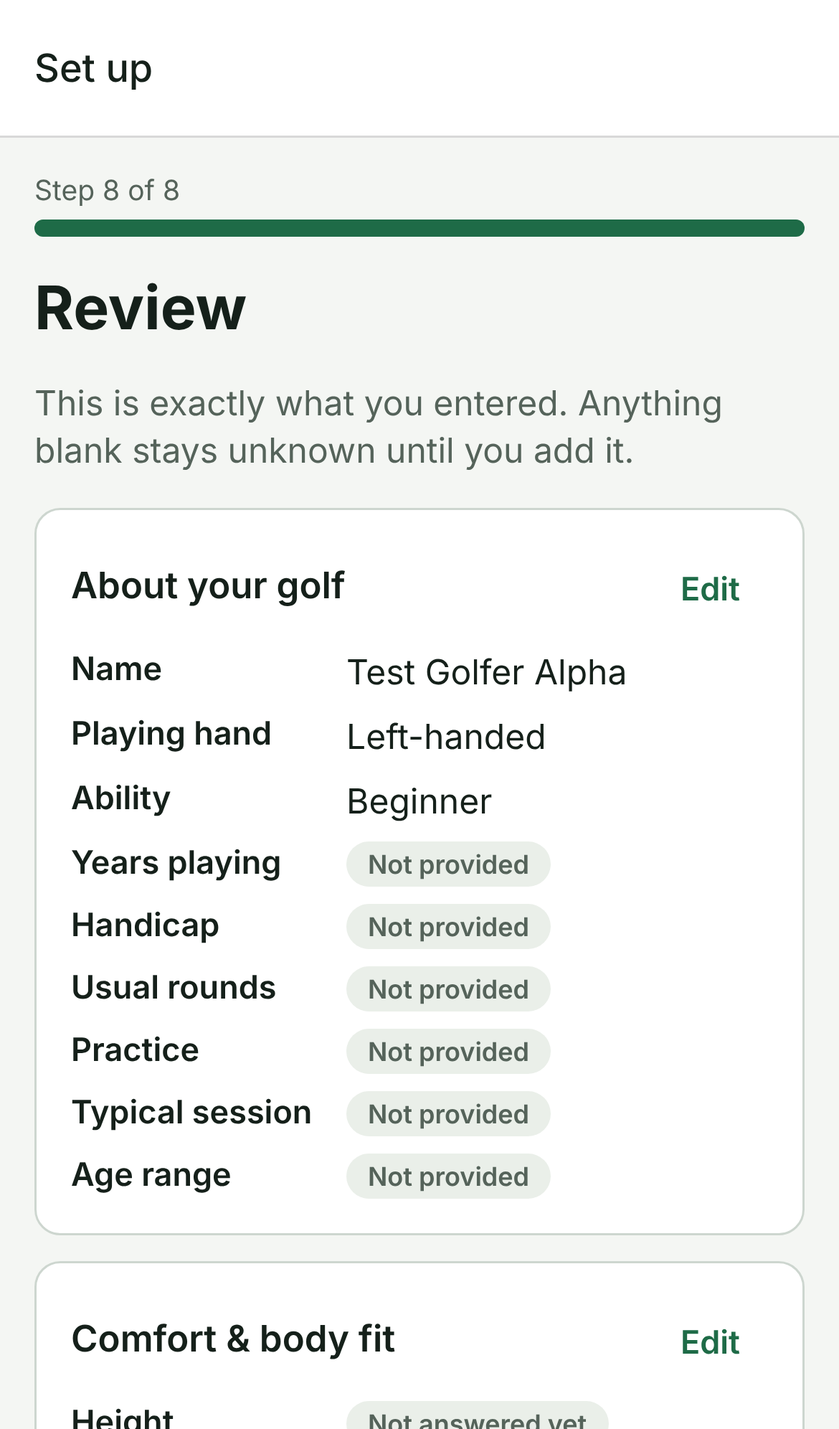
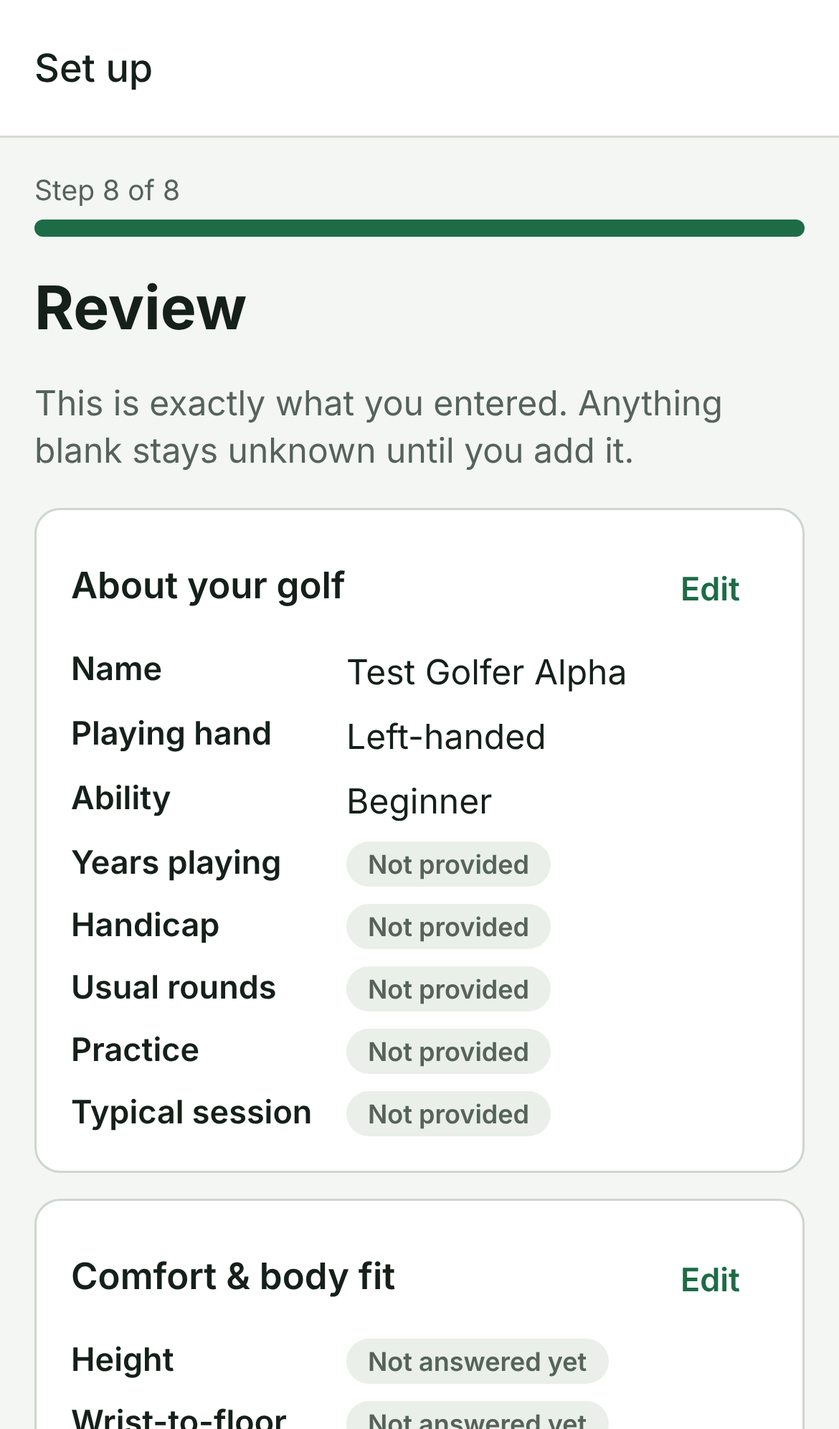
Update status, differences register and docs for M0 review
Claude-Session: https://claude.ai/code/session_01UXSWmpvm9VG5fmHmMJsMFg

diff --git a/IMPLEMENTATION_STATUS.md b/IMPLEMENTATION_STATUS.md
@@ -1,17 +1,21 @@
 # Implementation status
 
-_Last updated: 2026-10-19 (M0 delivery)._ Legend: **DONE** · **PARTIAL** · **NOT STARTED** · **BLOCKED EXTERNALLY**
+_Last updated: 2026-10-19 (M0 delivery, after spec reconciliation and the CI fix)._
+Legend: **DONE** · **PARTIAL** · **NOT STARTED** · **BLOCKED EXTERNALLY**
+
+Authoritative spec: [`docs/spec/adaptive_golf_coach_codex_master_prompt_v2.md`](docs/spec/adaptive_golf_coach_codex_master_prompt_v2.md)
+(owner's original). Architecture overrides: [`docs/spec/PROJECT_INSTRUCTIONS.md`](docs/spec/PROJECT_INSTRUCTIONS.md).
 
 ## Milestones
 
 | Milestone | Status | Notes / blocker and owner action |
 |---|---|---|
-| **M0** Foundation: project, navigation, onboarding, club catalogue, Brand/Model, My Clubs, Build My Bag, persistence | **DONE** (all acceptance criteria below verified in the browser build) / **PARTIAL** for native iOS | Native iOS binary not yet built. Needs an Expo account (free) for EAS Build, and Apple Developer membership to install on a phone. The iOS JavaScript bundle *does* build (`expo export --platform ios`). |
-| Browser preview deployment (GitHub Pages) | **BLOCKED EXTERNALLY** | Owner: Settings → Pages → Source “GitHub Actions”, then merge `claude/m0-foundation` into `main`. The workflow is written; the sub-path build passes E2E locally; it has not deployed yet. |
-| **M1** Offline video analyser (Apple Vision native module) | **NOT STARTED** | Not started, by instruction, until M0 is accepted. Needs: Apple Developer Program (to run on the iPhone), owner-supplied swing clips for validation. |
-| **M2** Curriculum, competency & refresher engine | NOT STARTED | Learn tab shows “Not available yet”. |
-| **M3** Rounds, practice logging, trends, import | NOT STARTED | M0 stores self-reported baseline round totals only. JSON export done; import not started. |
-| **M4** Accounts / sync / video backup | NOT STARTED | Provider decision (iCloud vs. Supabase) needed from owner before work starts. |
+| **M0** Foundation: project, navigation, onboarding, club catalogue, Brand/Model, My Clubs, Build My Bag, persistence | **DONE** in the browser build (every acceptance criterion verified below) / **PARTIAL** for native iOS | No native iOS binary has been built yet; that needs an Expo account (free) for EAS Build, and Apple Developer membership to install on a phone. The iOS JavaScript bundle does build (`expo export --platform ios`). |
+| Browser preview (GitHub Pages) | **BLOCKED EXTERNALLY** | Owner: Settings → Pages → Source **GitHub Actions**, then merge PR #1. The workflow is ready and passes `actionlint`; the identical sub-path build passes all browser tests. Not yet deployed. |
+| **M1** Offline video analyser (Apple Vision native module) | **NOT STARTED** | Not started, by instruction, until the owner has tested and approved M0. Needs the Apple Developer Program (to run on the iPhone) and owner-supplied swing clips. |
+| **M2** Curriculum, competency and refresher engine | NOT STARTED | The `player_skill_baseline` model and repository exist (supersede-only); the Learn tab shows “Not available yet”. |
+| **M3** Rounds, practice logging, trends, import | NOT STARTED | M0 stores self-reported baseline rounds (totals or hole-by-hole putts) and range sessions. JSON export is done; import is not. |
+| **M4** Accounts / sync / video backup | NOT STARTED | `SyncProvider` states exist (local only). The provider decision (iCloud vs. Supabase) is needed from the owner. |
 | **M5** Live camera, club tracking | NOT STARTED | — |
 | **M6** Product readiness | NOT STARTED | `docs/RELEASE_CHECKLIST.md` |
 
@@ -20,104 +24,103 @@ _Last updated: 2026-10-19 (M0 delivery)._ Legend: **DONE** · **PARTIAL** · **N
 | Criterion | Result | Evidence |
 |---|---|---|
 | Real app code and project scaffold; main navigation launches | ✅ | Expo SDK 57 project; 5 tabs + stack screens; web build boots with no console errors |
-| Brand-new user gets **no pre-filled real-person profile** | ✅ | `tests/data/persistence.test.ts` (fresh install), `tests/unit/noProductionFixtures.test.ts`, E2E “explore with an empty profile”, E2E Scenario A checks nothing is pre-selected |
-| Can skip **or** complete onboarding | ✅ | E2E: Scenario A (complete), “fully skipped onboarding stays blank”, “explore with an empty profile” |
-| Onboarding persists partial progress across relaunch | ✅ | E2E: reload at step 3 resumes at step 3; data test for progress |
-| Mixed-brand **partial** iron set (no auto-filled gaps) | ✅ | E2E: 5, 7, 8, 9 with no 6; 7-iron brand changed separately. Data test for the iron set helper |
-| A custom club via visible club-face tiles | ✅ | E2E: “Custom / other club” and custom driving iron |
-| A **different Brand typed for each club** | ✅ | E2E Scenario A (5 brands + 1 blank), two 5-irons A/B |
-| Select/deselect clubs into My Bag, **max 14** competition clubs | ✅ | E2E: 15th refused (from the add form and from Build My Bag) with a swap offer; swap; presets; practice selection > 14 labelled |
-| Relaunch without losing data | ✅ | E2E page reloads (IndexedDB-backed SQLite); data tests reopen the DB from saved bytes |
-| No mock analysis appears as real | ✅ | Analyse/Learn/Rounds show “Not available yet” cards; no sample data anywhere |
+| Brand-new user gets **no pre-filled real-person profile** | ✅ | `tests/data/persistence.test.ts` (fresh install), `tests/unit/noProductionFixtures.test.ts`, E2E “explore with an empty profile”, E2E Scenario A (nothing pre-selected) |
+| Can skip **or** complete onboarding | ✅ | E2E Scenario A (complete), “fully skipped onboarding stays blank”, “explore with an empty profile” |
+| Partial onboarding persists across relaunch | ✅ | E2E: reload at step 3 resumes at step 3; data test |
+| Mixed-brand **partial** iron set, no auto-filled gaps | ✅ | E2E: 5, 7, 8, 9 (no 6), with the 7-iron's brand changed on its own; data test |
+| A custom club via visible club-face tiles | ✅ | E2E: “Custom / other club”, custom driving iron, “W” stamped wedge, wedge by loft |
+| A **different Brand for each club** | ✅ | E2E Scenario A, two 5-irons with brands A and B |
+| Select/deselect into My Bag, **max 14** competition clubs | ✅ | E2E: 15th refused from the add form and from Build My Bag with a swap offer; swap; presets; practice selection > 14 labelled |
+| Relaunch without losing data | ✅ | E2E reloads; data tests reopen the database from saved bytes; two-tab test proves a stale tab cannot overwrite newer data |
+| No mock analysis appears as real | ✅ | Analyse/Learn/Rounds show “Not available yet”; no sample data anywhere |
 
-## Test results (actual, this commit)
+## Differences from the V2 specification
 
-Environment: Linux sandbox, Node 22.22, no Xcode, no iOS simulator. expo.dev / exp.host unreachable from the sandbox.
+Reconciled against the owner's original on 2026-10-19. The earlier transcription matched it word for
+word (9,246 words, no differences), so no requirement had been lost.
+Each entry gives its status: **Fixed** (done in this update), **Approved override**, **Deferred**
+(belongs to a later milestone, labelled in the UI), or **Interpretation** (please confirm).
+
+### Approved architecture overrides (owner instruction)
+| Spec | Implemented as |
+|---|---|
+| §1.1 native Swift/SwiftUI; §15.1 Xcode project | React Native + Expo + TypeScript, built by EAS; native folders generated |
+| §8 SwiftData | SQLite (expo-sqlite; sql.js in the browser preview) with append-only migrations |
+| §11 XCTest / XCUITest | Jest + React Native Testing Library + Playwright; Maestro on the iOS simulator planned |
+| §4.1 Apple Vision | Kept: custom Expo native module in M1 |
+
+### M0-scope items fixed in this update
+| Spec | Was | Now |
+|---|---|---|
+| §2.4 “Include list and **grouped visual grid**” | Grouped list and bag-order list only | **Fixed:** a grouped visual grid view in My Clubs, with an in-bag checkbox on every tile |
+| §2.1 step 7 “**per-hole putts**” | Round totals only | **Fixed:** putts can be “not counted”, a total, or hole by hole. Blank holes are shown as not recorded, with a denominator (e.g. “12 putts (6/9 holes recorded)”), never as 0 |
+| §2.1 step 7 “**recent range outcomes**” | Not captured | **Fixed:** range sessions with club, context, shots, optional successes and the golfer's own definition of success |
+| §2.4 “**Choose another owned club** and **Unknown / not entered**” | No club pickers in M0 | **Fixed:** `ClubPicker` by ClubInstanceID, defaulting to the active bag; works with an empty bag (used for range sessions) |
+| §2.5 models **GolfCoachNote**, **PlayerSkillBaseline** | Deferred | **Fixed:** both persisted (schema v2). Coach notes are dated, self-reported and archived rather than deleted; skill baselines are supersede-only, ready for M2 |
+| §8 **SyncProvider** with explicit states | Not implemented | **Fixed:** `local_only` / `icloud_not_configured` / `syncing` / `synced` / `sync_failed` / `conflict`; Settings shows the live status and never claims a backup |
+| §8 “use file protection/encryption available on iOS” | Platform default | **Fixed (config):** `NSFileProtectionComplete` default data-protection entitlement. Not yet verified in an EAS build |
+| §2.1 step 3 “Support ‘I don't know’” | Blank meant unknown | **Fixed:** explicit “I don't know” for height and wrist-to-floor (stored as `not_provided`) |
+| §2.1 step 2 optional age range “only if it serves a demonstrated coaching purpose” | Asked, but used by nothing | **Fixed:** removed. It can return once a feature needs it |
+| §2.4 quick “**Save Setup**” | Labelled “Save as new bag…” | **Fixed:** labelled “Save Setup…”; the help text explains that changes save automatically and this keeps a named copy |
+| §8 interfaces `ClubCatalogRepository`, `ClubInventoryRepository`, `BagPresetRepository`, `OnboardingRepository` | Implicit | **Fixed:** exported repository types |
+| Data integrity (§2.4 history-safe, §8) | Whole-file saves, last writer wins | **Fixed (hardening):** browser saves are revision-guarded, so a stale tab cannot overwrite newer data (see `docs/TESTING.md`, CI incident) |
+
+### Deferred to later milestones (labelled “Not available yet” in the UI)
+| Spec | Milestone |
+|---|---|
+| §2.3 club photo uploaded by the golfer (table exists) | M1 (media import) |
+| §2.1 step 7 swing videos in baseline | M1 |
+| §2.4 round snapshots of the bag; club picking in video/round screens | M1 / M3 (bag membership history is already stored) |
+| §2.1 step 8 drill steps and outcome logging for the starter session (the outline is real and bag-aware) | M2 |
+| §3 Today: drill, next challenge, strengths, refresher flags | M2 |
+| §3 practice contexts (Home, Range, Course, Putting Green, Indoor) and one-tap repeat | M2 / M3 |
+| §7 scorecards, FIR/GIR, trends; JSON/CSV import and backup verification | M3 |
+| §8 iCloud / CloudKit sync and video backup | M4 |
+| §2.5, §11 Dynamic Type and VoiceOver **audit** on a device (labels and states are implemented) | Physical device testing |
+
+### Interpretations to confirm
+- **Units default from the phone's region** (measurement system). They are shown on “About your golf”
+  and in Settings, and can be changed. Treated as a display preference that respects the locale
+  (§1.8), not as a profile fact filled in from the device (§2.1).
+- A **“W”** stamp maps to a “Wedge with other stamp” type with no loft. “P” offers pitching wedge
+  and putter as candidates. A plus handicap is entered as a negative number.
+
+## Test results
+
+Environment: Linux sandbox, Node 22, no Xcode or iOS simulator. These are local results for this commit;
+the CI results for the same commit are on PR #1.
 
 | Check | Command | Result |
 |---|---|---|
 | TypeScript | `npm run typecheck` | ✅ no errors |
 | ESLint | `npm run lint` | ✅ no problems |
-| Jest (unit + real-SQLite data + native component) | `npx jest --ci` | ✅ **9 suites, 82 tests passed** |
-| Web export | `expo export --platform web` | ✅ built `dist/` (1.3 MB JS bundle) |
-| iOS JS bundle | `expo export --platform ios` | ✅ Hermes bundle built (3 MB). **No native binary compiled.** |
-| Browser E2E | `npx playwright test` (Chromium, iPhone 13 viewport) | ✅ **8 tests passed** at the root path **and** 8/8 under the GitHub Pages sub-path `/adaptive-golf-coach-ios-/` |
-| expo-doctor | `npx expo-doctor` | 19/21 passed. 2 failed only because exp.host and React Native Directory are unreachable from the sandbox. A real duplicate `expo-font` issue was found and fixed with an npm override. |
+| Jest (unit, real-SQLite data, IndexedDB guard, native-renderer components) | `npx jest --ci` | ✅ **12 suites, 99 tests** |
+| Browser E2E, root build (Chromium, iPhone 13 viewport) | `npx playwright test` | ✅ **12/12** |
+| Browser E2E, GitHub Pages sub-path build | `npm run test:e2e:pages` | ✅ **12/12**, and **36/36** with `--repeat-each=3` |
+| iOS JavaScript bundle | `expo export --platform ios` | ✅ Hermes bundle builds (no native binary compiled) |
+| Workflow lint | `actionlint .github/workflows/*.yml` | ✅ |
 
 **Not run:**
-- iOS simulator tests (Maestro flows written; needs an Expo account; cost unconfirmed).
-- Any test on a physical iPhone or iPad.
+- Physical iPhone or iPad.
 - Safari/WebKit.
-- The browser-preview deployment.
-- VoiceOver and Dynamic Type audits on a device.
+- iOS-simulator Maestro flows (drafted; need an Expo account, cost unconfirmed).
+- Native EAS build, including the file-protection entitlement.
+- On-device VoiceOver and Dynamic Type audit.
 
 ## Known limitations (M0)
 
-- Club photo upload is shown as “Not available yet” (arrives with media import in M1).
-- Import from a backup is not built; export is.
-- Baseline rounds are totals only; hole-by-hole scoring arrives in M3.
-- `PlayerSkillBaseline` and `GolfCoachNote` models are deferred to M2. Coach name and notes are
-  captured as profile facts for now.
-- The app icon and splash are still the Expo template images. The bundle ID
-  `com.example.adaptivegolfcoach` is a placeholder.
-- The browser preview stores data per browser; two tabs can conflict. The preview URL is public; entered data stays in the browser. Data can be lost if Safari
-  website data is cleared.
-- Tab-bar icons are text glyphs, not a designed icon set.
-- The spec copy in `docs/spec/MASTER_SPEC_V2.md` is **unverified** (transcribed from chat). The
-  repository had no specification.
+- The browser preview stores data in that browser only. Clearing Safari website data deletes it.
+- If two tabs are used, the stale one stops and asks for a reload (by design).
+- The browser preview can never run the Apple Vision analyser.
+- The app icon and splash are Expo's defaults. The bundle ID `com.example.adaptivegolfcoach` is a placeholder.
+- Tab-bar icons are text glyphs.
 
-## Differences from the V2 specification (M0)
+## Next three executable steps (after owner approval of M0)
 
-Compared against the **unverified** copy in `docs/spec/MASTER_SPEC_V2.md`. These will be
-reconciled again against the owner's original `adaptive_golf_coach_codex_master_prompt_v2.md`
-before merge.
-
-**Approved architecture overrides (owner instruction, not gaps)**
-- React Native + Expo + TypeScript + EAS, instead of SwiftUI/Xcode.
-- SQLite (expo-sqlite / sql.js), instead of SwiftData.
-- Jest + Playwright (+ Maestro, planned), instead of XCTest/XCUITest.
-- Apple Vision is kept, via a custom Expo native module (M1).
-
-**Partial or deferred within M0 scope**
-- My Clubs offers *grouped by category* and *bag-order list* views. The spec also asks for a
-  **visual grid** of owned clubs; only the Club Face Gallery is a grid. Not yet done.
-- **Club photo upload**: data table exists, UI shows “Not available yet” (needs media import, M1).
-- **Baseline import**: round totals only (score, total putts, course). **Per-hole putts** and
-  **recent range outcomes** are not captured yet (M3). Swing videos are “Not available yet” (M1).
-  Club distances are entered per club.
-- `PlayerSkillBaseline` and `GolfCoachNote` models are deferred to M2. The coach's name and notes
-  are stored as profile facts for now.
-- **Starter plan** gives a real, rule-based outline (areas, the golfer's own clubs, reasons).
-  Drill steps and outcome logging arrive with M2.
-- **“Save Setup”** is implemented as **“Save as new bag…”**. Bag changes are saved immediately,
-  so there is no separate save step.
-- **`SyncProvider` states** (`local_only`, `icloud_not_configured`, …) are not implemented as an
-  interface yet. Settings states that sync is not configured (M4).
-- **“Choose another owned club / Unknown”** pickers belong to the video and round screens (M1/M3).
-  Round snapshots of the bag are M3; membership history is already stored to support them.
-- iOS file protection uses the platform default; an explicit `Complete` protection class has not
-  been configured.
-- Dynamic Type and VoiceOver: text scales with the system setting and controls have labels and
-  states, but **no on-device audit** has been done.
-
-**Interpretations to confirm**
-- **Units** default from the phone's region (measurement system). They are shown on the
-  About-your-golf step and in Settings, and can be changed. Treated as a display preference,
-  not a profile fact filled from the device.
-- **Optional age range** is included with a privacy explanation (“keep practice suggestions
-  comfortable”). The spec allows it only with a demonstrated coaching purpose. It can be removed.
-- A **“W”** stamp maps to a “Wedge with other stamp” type, never to a loft. “P” offers
-  pitching wedge *and* putter as candidates. A plus handicap is entered as a negative number.
-
-## Next three executable steps
-
-1. **Owner:** enable GitHub Pages (Source: GitHub Actions) and merge the M0 branch to `main`.
-   I then verify the Pages deployment from the Actions logs and the live URL, and fix any
-   first-run problems.
-2. **M1a:** scaffold the local Expo native module `modules/golf-vision` (Swift: AVFoundation
-   probe + Vision 2D pose with real timestamps, progress and cancel) behind the TypeScript
-   `PoseEstimator` interface. Write the TypeScript orientation/missingness/smoothing tests
-   first.
-3. **M1a build:** run an EAS development build once Apple Developer membership is in place. You
-   install it and run the prototype on your own face-on and down-the-line clips. We record
-   detection rates and overlay alignment before building the full analyser UI.
+1. **Owner:** enable GitHub Pages (Source: GitHub Actions), merge PR #1, test M0 in Safari. I then
+   verify the deployment logs and the live URL.
+2. **M1a:** scaffold the local Expo native module `modules/golf-vision` (Swift: AVFoundation probe +
+   Vision 2D pose with real timestamps, progress and cancel) behind the TypeScript `PoseEstimator`
+   interface, with orientation, missingness and smoothing tests written first.
+3. **M1a build:** run an EAS development build once Apple Developer membership is in place. The owner
+   installs it and runs the prototype on their own face-on and down-the-line clips.

diff --git a/docs/DATA_DICTIONARY.md b/docs/DATA_DICTIONARY.md
@@ -1,4 +1,4 @@
-# Data dictionary (schema v1)
+# Data dictionary (schema v2)
 
 All timestamps are UTC ISO-8601 text. Calendar dates the golfer sees (`played_on`,
 `observed_on`) are local `YYYY-MM-DD` in the golfer's own time zone. IDs are UUID text.
@@ -19,13 +19,25 @@ All timestamps are UTC ISO-8601 text. Calendar dates the golfer sees (`played_on
 | `club_bag_preset` | Named bag | `name`, `kind` competition/practice, `is_active`, `archived_at` |
 | `club_bag_membership` | Club-in-bag periods | `preset_id`, `club_instance_id`, `added_at`, `removed_at` (null = currently in bag) |
 | `equipment_photo` | Golfer's own club photos (UI in M1) | `relative_path`, `content_hash`, `deleted_at` |
+| `baseline_round_hole` *(v2)* | Optional hole-by-hole putts for a baseline round | `hole_number` 1–18, `putts` nullable (**null = not counted on that hole**) |
+| `baseline_range_outcome` *(v2)* | Recent range sessions entered as baseline | `club_choice` bag/other_owned/unknown, `club_instance_id` (ClubInstanceID or null), `context`, `shots`, `successes` nullable, `success_definition`, `source` |
+| `golf_coach_note` *(v2)* | GolfCoachNote: dated notes from a coach | `coach_name`, `noted_on`, `text`, `club_instance_id`, `source` (`self_reported` when typed by the golfer), `archived_at` |
+| `player_skill_baseline` *(v2)* | PlayerSkillBaseline: approved per-skill baseline (populated by M2) | `skill_id`, `level`, `context`, `club_instance_id`, `camera_view`, `measurement_version`, `provenance`, `summary_json`, `approved_by`, `approval_rationale`, `superseded_at` |
 
 ## Profile field keys
 
-`displayName, playingHand, abilityLevel, yearsPlayed, handicap {value, kind official|estimated}, usualRounds, practiceTypes[], typicalPracticeMinutes, ageRange, heightCm, wristToFloorCm, movementComfort, practiceVolume, transport, accessibilityNeeds, comfortNotes, challenges[], challengesOther, playFrequency, indoorSpaceM, practiceAids[], surfaceAccess[], coachName, coachNotes, upcomingEvents, existingLessonFocus`
+`displayName, playingHand, abilityLevel, yearsPlayed, handicap {value, kind official|estimated}, usualRounds, practiceTypes[], typicalPracticeMinutes, heightCm, wristToFloorCm, movementComfort, practiceVolume, transport, accessibilityNeeds, comfortNotes, challenges[], challengesOther, playFrequency, indoorSpaceM, practiceAids[], surfaceAccess[], coachName, upcomingEvents, existingLessonFocus`
 
-Sensitive (never logged): height, wrist-to-floor, movement comfort, accessibility, comfort notes, age range, coach details.
+Removed before release: `ageRange` (the spec allows it only with a demonstrated coaching purpose, and nothing used it) and `coachNotes` (replaced by dated `golf_coach_note` records).
+
+Sensitive (never logged): height, wrist-to-floor, movement comfort, accessibility, comfort notes, coach details and notes.
 
 ## Export format
 
-`{ format: "adaptive-golf-coach-export", formatVersion: 1, exportedAt, ownerId, tables: { <table>: rows[] } }`. Plain JSON, no lock-in. Import arrives in M3.
+`{ format: "adaptive-golf-coach-export", formatVersion: 2, exportedAt, ownerId, tables: { <table>: rows[] } }`. Plain JSON, no lock-in. Import arrives in M3.
+
+## Browser-preview storage keys (IndexedDB `adaptive-golf-coach` → store `sqlite`)
+
+- `main-db`: the complete SQLite file.
+- `main-db-rev`: an integer revision. Every save must state the revision it was based on. A save based
+  on an older revision is refused (`StaleWriteError`), so an out-of-date tab can never overwrite newer data.

diff --git a/docs/ARCHITECTURE.md b/docs/ARCHITECTURE.md
@@ -45,8 +45,18 @@ Rules flow downward only. Domain code has no dependencies on React or storage.
 7. **Units:** values are stored canonically (metres, cm, degrees) along with the entered unit.
    Defaults come from the phone's measurement system and are always shown and editable.
 8. **Browser preview** uses the same screens and the same SQL. `openDatabase.web.ts` loads
-   sql.js from `/vendor/sqljs` (copied at install) and persists the DB file to IndexedDB after
-   each committed write.
+   sql.js from `<baseUrl>/vendor/sqljs` (copied at install). It persists the DB file to IndexedDB
+   after each committed write, through a **revision guard** (`idbStore.ts`).
+   - Each page instance holds its own in-memory copy and saves the whole file.
+   - A save based on an out-of-date revision is refused, and the page shows "Reload needed"
+     instead of silently overwriting newer data from another tab, a page restored by the back
+     button, or a page still saving while a new one loads.
+   - Pragma-only statements are not saved, so simply opening the app never makes another tab stale.
+9. **Sync status:** `SyncProvider` (`src/domain/sync.ts`) has explicit states (`local_only`,
+   `icloud_not_configured`, `syncing`, `synced`, `sync_failed`, `conflict`). The only provider in
+   this release is local, and nothing is ever described as backed up without remote confirmation.
+10. **Club picking by ClubInstanceID** (`ClubPicker`) defaults to the active bag, with explicit
+   "Choose another owned club" and "Unknown / not entered" options.
 
 ## Planned M1 swing pipeline (not yet built)
 

diff --git a/README.md b/README.md
@@ -23,13 +23,19 @@ distances, scores or swing faults.
   length, lie, shaft, grip, condition, purchase year, notes and handedness override.
 - Per-club distance records: estimated or measured, carry or total, with source, context,
   date and number of shots.
-- **My Clubs** (owned) is kept separate from **My Bag** (active):
+- Optional baseline:
+  - past rounds, with putts as a total or hole by hole (blank holes stay “not recorded”, never 0);
+  - recent range sessions, choosing the club from your bag, another owned club, or “Unknown”;
+  - dated coach notes.
+- **My Clubs** (owned, as a list or a grouped visual grid) is kept separate from **My Bag** (active):
   - a competition bag holds at most 14 clubs, and a 15th is refused with a swap offer;
   - practice selections can be larger and are labelled as such;
   - named bag presets, swap and clear;
   - clubs that have history are archived on delete rather than erased.
 - Local private storage: SQLite on iPhone; in the browser preview, SQLite (WebAssembly) saved
-  in that browser. JSON export and **Delete all my data** are included.
+  in that browser. A second, out-of-date tab can never overwrite newer data; it asks for a reload.
+  JSON export and **Delete all my data** are included, and the sync status says plainly that
+  nothing is backed up yet.
 - Analyse, Learn and Rounds show clearly labelled **“Not available yet”** cards. No sample or
   fake analysis is shown anywhere.
 

diff --git a/docs/PRIVACY_SECURITY.md b/docs/PRIVACY_SECURITY.md
@@ -12,7 +12,12 @@
 - **Golfer controls:** export all data as JSON, and *Delete all my data*, which removes every
   owner-scoped row.
 - Body measurements and comfort/accessibility notes are optional, marked sensitive, and never
-  used to calculate club specifications or medical judgements.
+  used to calculate club specifications or medical judgements. Height and wrist-to-floor have an
+  explicit “I don't know”. No age question is asked: the spec allows one only for a demonstrated
+  coaching purpose, and none exists yet.
+- **iOS file protection:** the app requests the `NSFileProtectionComplete` default data-protection
+  entitlement, so its files are encrypted while the device is locked. This is set in `app.json` and
+  is **not yet verified** in an EAS build.
 - No secrets are in the repository. The repository is **public**: never commit personal golf data, real swing videos, credentials or tokens. Fixtures are fictional. Any `EXPO_TOKEN` lives only in GitHub Actions secrets.
 
 ## Before any public release (not done)

diff --git a/AGENTS.md b/AGENTS.md
@@ -2,7 +2,7 @@
 
 This is an Expo / React Native / TypeScript app for iPhone, built in the cloud with EAS. The
 owner has no Mac. Read `docs/spec/README.md` first. The functional spec is
-`docs/spec/MASTER_SPEC_V2.md`, and the architecture overrides are in
+`docs/spec/adaptive_golf_coach_codex_master_prompt_v2.md` (authoritative original), and the architecture overrides are in
 `docs/spec/PROJECT_INSTRUCTIONS.md`.
 
 ## Non-negotiables
